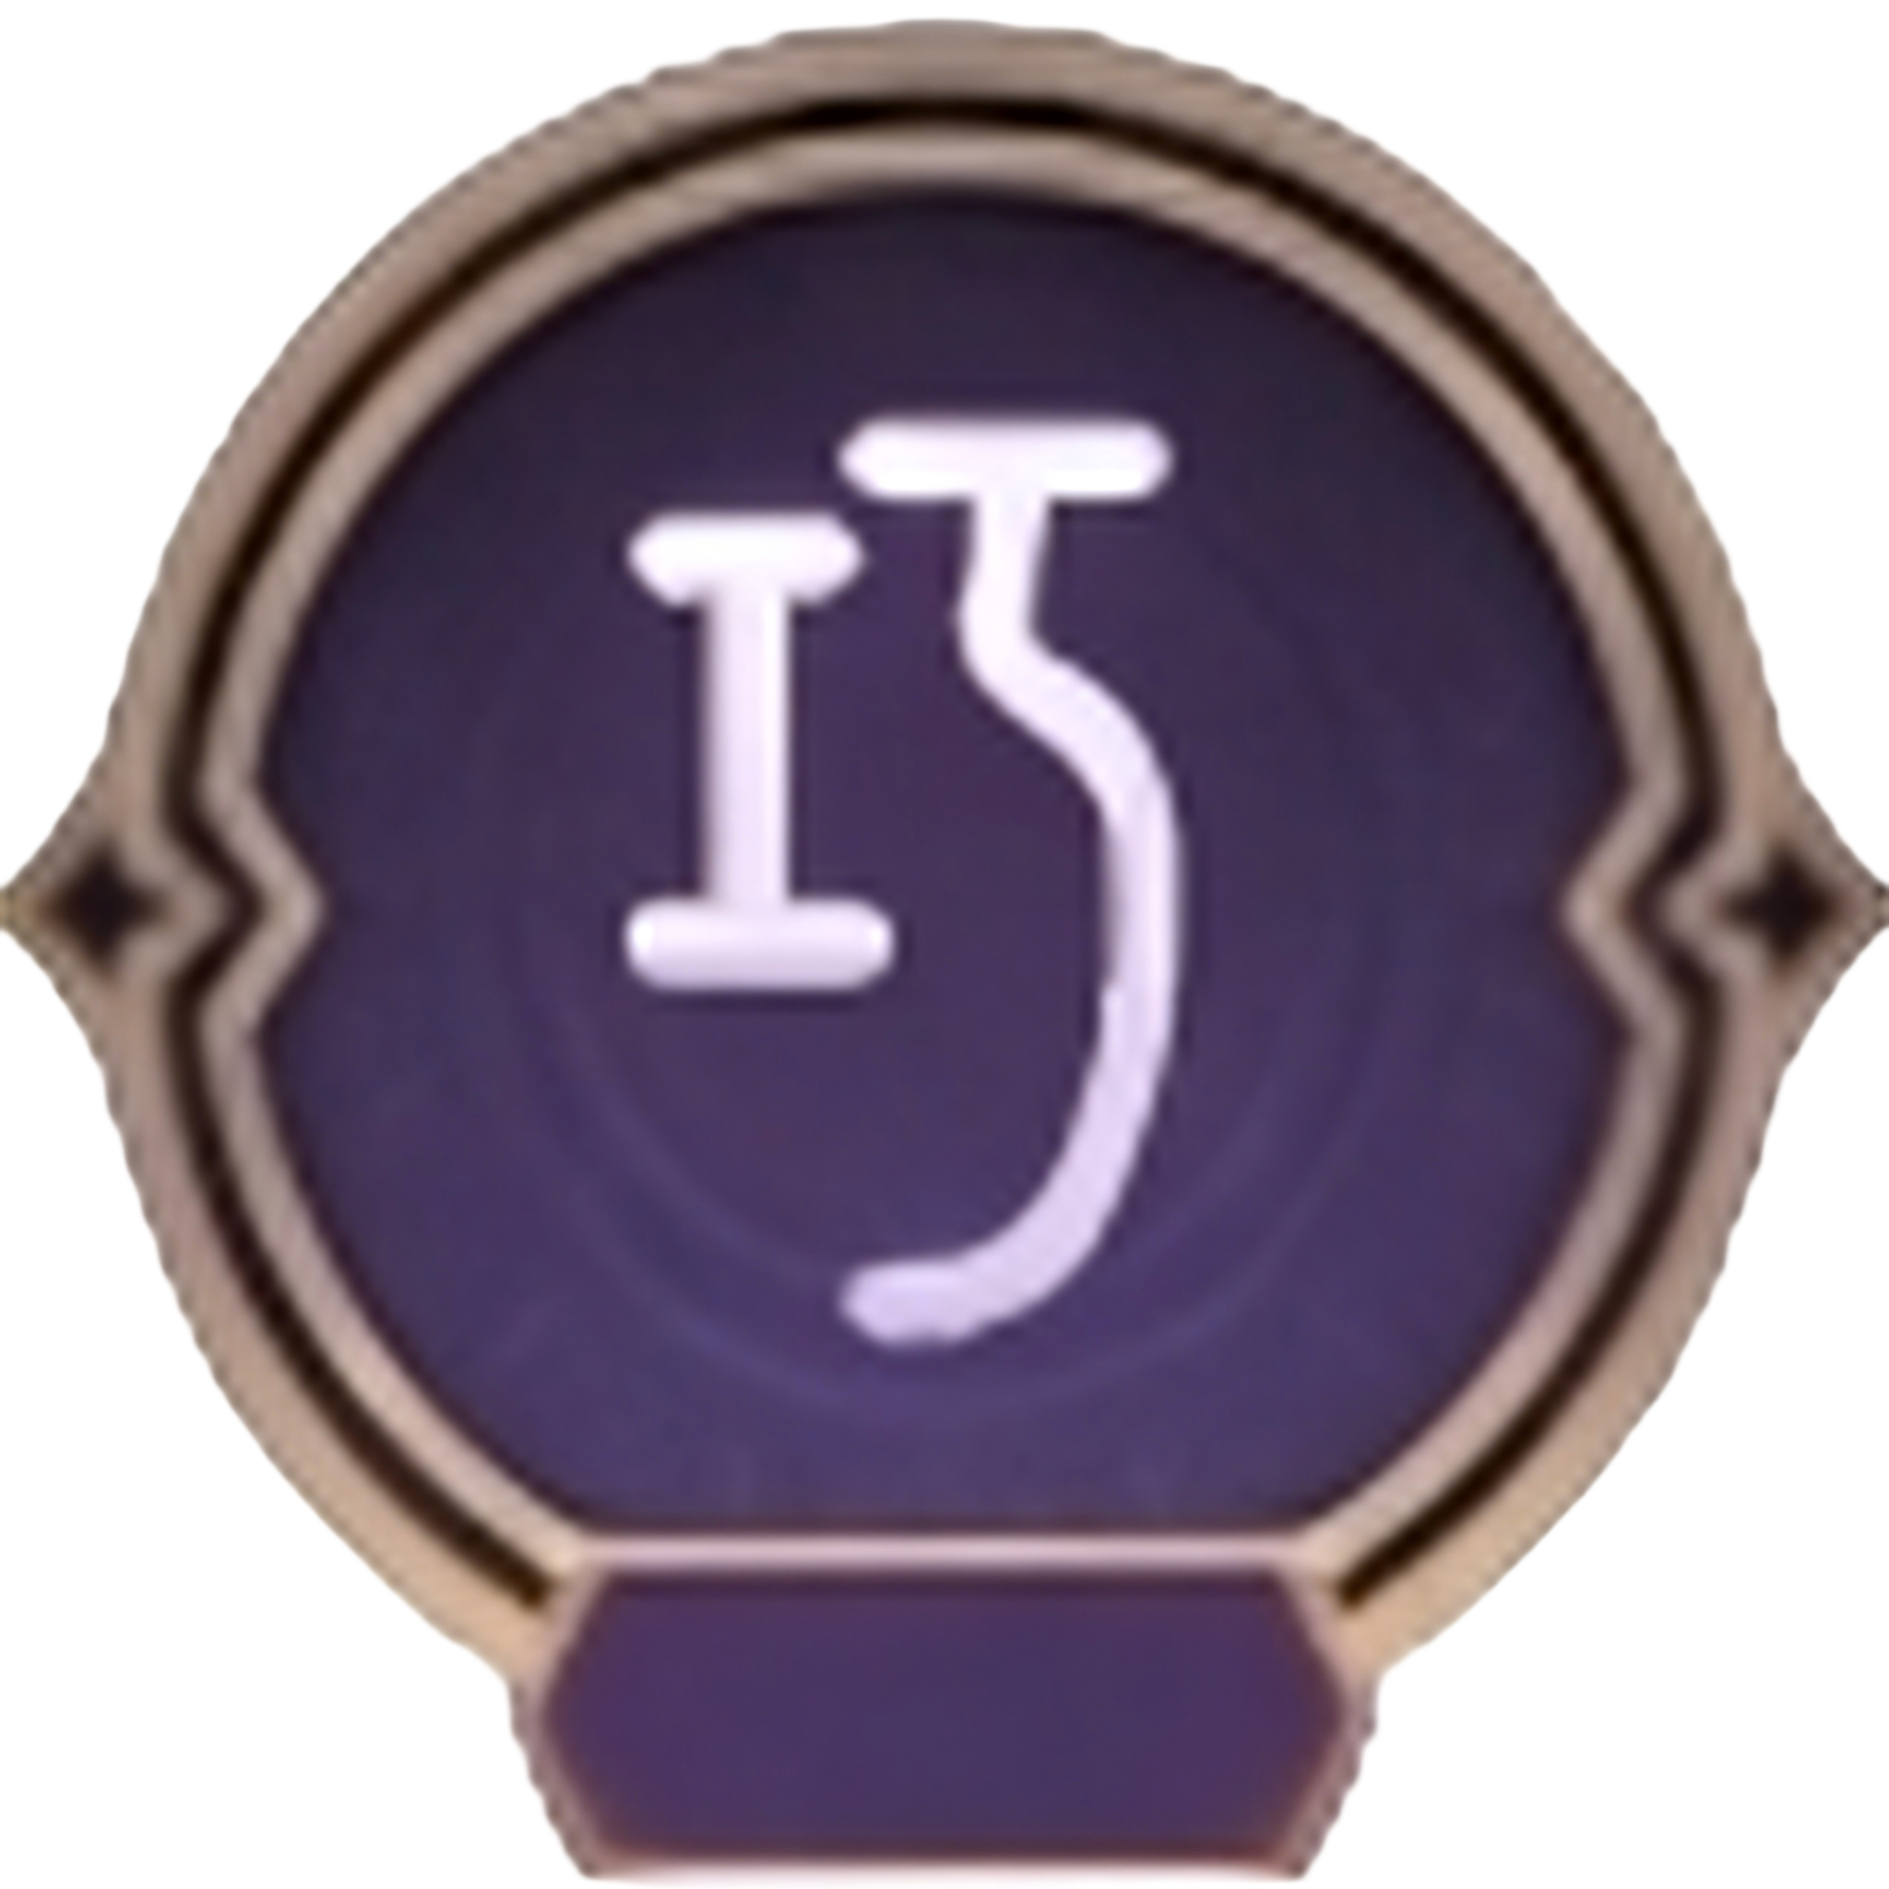
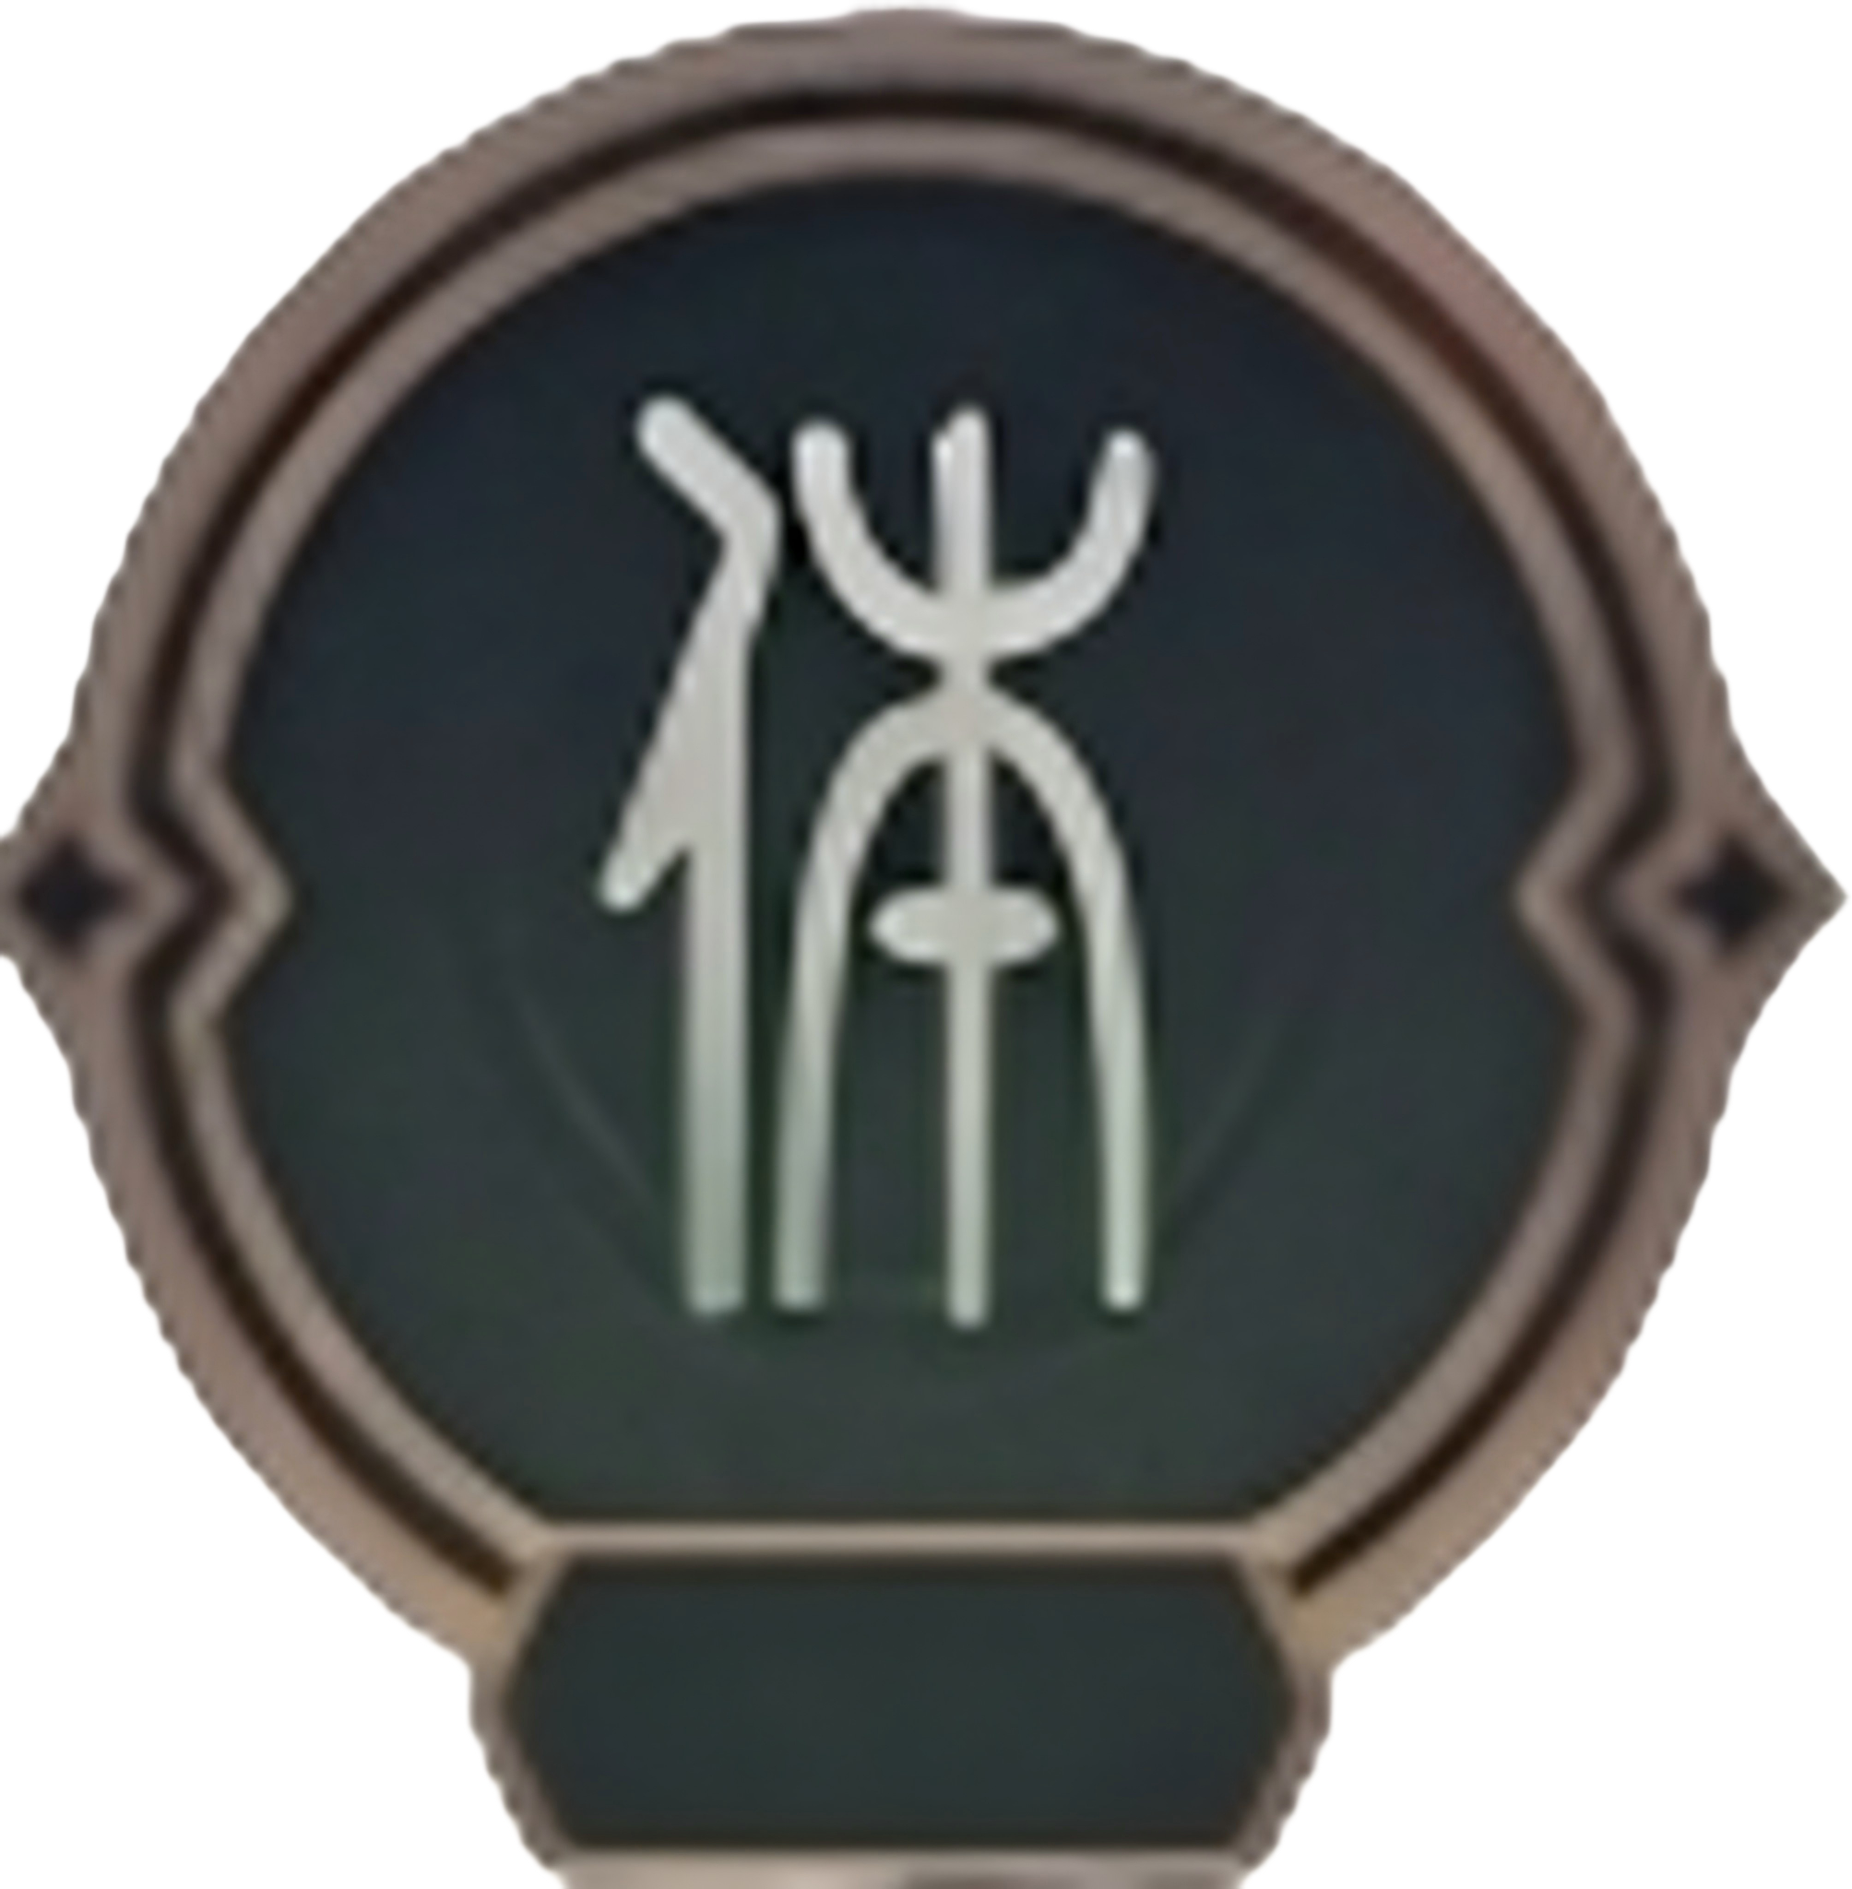
feat:继续完善【天赋点】

diff --git a/NarakaBladepoint.Modules/CommonFunction/UI/SkillPoint/Views/SkillPointPage.xaml b/NarakaBladepoint.Modules/CommonFunction/UI/SkillPoint/Views/SkillPointPage.xaml
@@ -141,7 +141,7 @@
                         ElementName="ellipse"
                         Path="(Canvas.Top)" />
                 </Canvas.Top>
-                <Image Source="{StaticResource SkillPointLeftUpFirstCircle1Image}" />
+                <Image Source="{StaticResource SkillPointLeftDownFirstCircle1Image}" />
                 <Image
                     Width="{StaticResource CanEditIconSize}"
                     Height="{StaticResource CanEditIconSize}"
@@ -196,7 +196,7 @@
                         ElementName="ellipse"
                         Path="(Canvas.Top)" />
                 </Canvas.Top>
-                <Image Source="{StaticResource SkillPointLeftUpFirstCircle2Image}" />
+                <Image Source="{StaticResource SkillPointLeftDownFirstCircle2Image}" />
                 <Image
                     Width="{StaticResource CanEditIconSize}"
                     Height="{StaticResource CanEditIconSize}"
@@ -258,7 +258,7 @@
                         ElementName="ellipse"
                         Path="(Canvas.Top)" />
                 </Canvas.Top>
-                <Image Source="{StaticResource SkillPointLeftUpSecondCircle1Image}" />
+                <Image Source="{StaticResource SkillPointLeftDownFirstCircle1Image}" />
                 <Image
                     Width="{StaticResource CanEditIconSize}"
                     Height="{StaticResource CanEditIconSize}"
@@ -320,7 +320,7 @@
                         ElementName="ellipse"
                         Path="(Canvas.Top)" />
                 </Canvas.Top>
-                <Image Source="{StaticResource SkillPointLeftUpSecondCircle2Image}" />
+                <Image Source="{StaticResource SkillPointLeftDownSecondCircle2Image}" />
                 <Image
                     Width="{StaticResource CanEditIconSize}"
                     Height="{StaticResource CanEditIconSize}"
@@ -382,7 +382,7 @@
                         ElementName="ellipse"
                         Path="(Canvas.Top)" />
                 </Canvas.Top>
-                <Image Source="{StaticResource SkillPointLeftUpThirdCircle1Image}" />
+                <Image Source="{StaticResource SkillPointLeftDownThirdCircle1Image}" />
                 <Image
                     Width="{StaticResource CanEditIconSize}"
                     Height="{StaticResource CanEditIconSize}"
@@ -444,7 +444,7 @@
                         ElementName="ellipse"
                         Path="(Canvas.Top)" />
                 </Canvas.Top>
-                <Image Source="{StaticResource SkillPointLeftUpThirdCircle2Image}" />
+                <Image Source="{StaticResource SkillPointLeftDownThirdCircle2Image}" />
                 <Image
                     Width="{StaticResource CanEditIconSize}"
                     Height="{StaticResource CanEditIconSize}"
@@ -488,7 +488,7 @@
                 <Canvas.Top>
                     <Binding ElementName="LuGrid" Path="(Canvas.Top)" />
                 </Canvas.Top>
-                <Image Source="{StaticResource SkillPointCircleImage}" />
+                <Image Source="{StaticResource SkillPointRightDownFirstCircle2Image}" />
                 <Image
                     Width="{StaticResource CanEditIconSize}"
                     Height="{StaticResource CanEditIconSize}"
@@ -531,7 +531,7 @@
                 <Canvas.Top>
                     <Binding ElementName="MaGrid" Path="(Canvas.Top)" />
                 </Canvas.Top>
-                <Image Source="{StaticResource SkillPointCircleImage}" />
+                <Image Source="{StaticResource SkillPointRightDownFirstCircle1Image}" />
                 <Image
                     Width="{StaticResource CanEditIconSize}"
                     Height="{StaticResource CanEditIconSize}"
@@ -567,9 +567,9 @@
                 </b:Interaction.Triggers>
                 <Grid.IsEnabled>
                     <MultiBinding Converter="{StaticResource DependencySkillPointConverter}" FallbackValue="True">
-                        <Binding Path="SkillPointsRightUp[0].CurrentLearned" />
-                        <Binding Path="SkillPointsRightUp[1].CurrentLearned" />
-                        <Binding Path="SkillPointsRightUp[0].TotalLearnable" />
+                        <Binding Path="SkillPointsRightDown[0].CurrentLearned" />
+                        <Binding Path="SkillPointsRightDown[1].CurrentLearned" />
+                        <Binding Path="SkillPointsRightDown[0].TotalLearnable" />
                     </MultiBinding>
                 </Grid.IsEnabled>
                 <Canvas.Left>
@@ -581,7 +581,7 @@
                 <Canvas.Top>
                     <Binding ElementName="HeGrid" Path="(Canvas.Top)" />
                 </Canvas.Top>
-                <Image Source="{StaticResource SkillPointCircleImage}" />
+                <Image Source="{StaticResource SkillPointRightDownSecondCircle2Image}" />
                 <Image
                     Width="{StaticResource CanEditIconSize}"
                     Height="{StaticResource CanEditIconSize}"
@@ -616,10 +616,10 @@
                     </b:EventTrigger>
                 </b:Interaction.Triggers>
                 <Grid.IsEnabled>
-                    <MultiBinding Converter="{StaticResource DependencySkillPointConverter}">
-                        <Binding Path="SkillPointsRightUp[0].CurrentLearned" />
-                        <Binding Path="SkillPointsRightUp[1].CurrentLearned" />
-                        <Binding Path="SkillPointsRightUp[0].TotalLearnable" />
+                    <MultiBinding Converter="{StaticResource DependencySkillPointConverter}" FallbackValue="True">
+                        <Binding Path="SkillPointsRightDown[0].CurrentLearned" />
+                        <Binding Path="SkillPointsRightDown[1].CurrentLearned" />
+                        <Binding Path="SkillPointsRightDown[0].TotalLearnable" />
                     </MultiBinding>
                 </Grid.IsEnabled>
                 <Canvas.Left>
@@ -631,7 +631,7 @@
                 <Canvas.Top>
                     <Binding ElementName="OuGrid" Path="(Canvas.Top)" />
                 </Canvas.Top>
-                <Image Source="{StaticResource SkillPointCircleImage}" />
+                <Image Source="{StaticResource SkillPointRightDownSecondCircle1Image}" />
                 <Image
                     Width="{StaticResource CanEditIconSize}"
                     Height="{StaticResource CanEditIconSize}"
@@ -666,10 +666,10 @@
                     </b:EventTrigger>
                 </b:Interaction.Triggers>
                 <Grid.IsEnabled>
-                    <MultiBinding Converter="{StaticResource DependencySkillPointConverter}">
-                        <Binding Path="SkillPointsRightUp[2].CurrentLearned" />
-                        <Binding Path="SkillPointsRightUp[3].CurrentLearned" />
-                        <Binding Path="SkillPointsRightUp[2].TotalLearnable" />
+                    <MultiBinding Converter="{StaticResource DependencySkillPointConverter}" FallbackValue="True">
+                        <Binding Path="SkillPointsRightDown[2].CurrentLearned" />
+                        <Binding Path="SkillPointsRightDown[3].CurrentLearned" />
+                        <Binding Path="SkillPointsRightDown[2].TotalLearnable" />
                     </MultiBinding>
                 </Grid.IsEnabled>
                 <Canvas.Left>
@@ -681,7 +681,7 @@
                 <Canvas.Top>
                     <Binding ElementName="ShiGrid" Path="(Canvas.Top)" />
                 </Canvas.Top>
-                <Image Source="{StaticResource SkillPointCircleImage}" />
+                <Image Source="{StaticResource SkillPointRightDownThirdCircle1Image}" />
                 <Image
                     Width="{StaticResource CanEditIconSize}"
                     Height="{StaticResource CanEditIconSize}"
@@ -716,10 +716,10 @@
                     </b:EventTrigger>
                 </b:Interaction.Triggers>
                 <Grid.IsEnabled>
-                    <MultiBinding Converter="{StaticResource DependencySkillPointConverter}">
-                        <Binding Path="SkillPointsRightUp[2].CurrentLearned" />
-                        <Binding Path="SkillPointsRightUp[3].CurrentLearned" />
-                        <Binding Path="SkillPointsRightUp[2].TotalLearnable" />
+                    <MultiBinding Converter="{StaticResource DependencySkillPointConverter}" FallbackValue="True">
+                        <Binding Path="SkillPointsRightDown[2].CurrentLearned" />
+                        <Binding Path="SkillPointsRightDown[3].CurrentLearned" />
+                        <Binding Path="SkillPointsRightDown[2].TotalLearnable" />
                     </MultiBinding>
                 </Grid.IsEnabled>
                 <Canvas.Left>
@@ -731,7 +731,7 @@
                 <Canvas.Top>
                     <Binding ElementName="XiongGrid" Path="(Canvas.Top)" />
                 </Canvas.Top>
-                <Image Source="{StaticResource SkillPointCircleImage}" />
+                <Image Source="{StaticResource SkillPointRightDownThirdCircle2Image}" />
                 <Image
                     Width="{StaticResource CanEditIconSize}"
                     Height="{StaticResource CanEditIconSize}"
@@ -1059,7 +1059,7 @@
                         <Binding ElementName="skillPointCanvas" Path="ActualHeight" />
                     </MultiBinding>
                 </Canvas.Top>
-                <Image Source="{StaticResource SkillPointCircleImage}" />
+                <Image Source="{StaticResource SkillPointRightUpFirstCircle1Image}" />
                 <Image
                     Width="{StaticResource CanEditIconSize}"
                     Height="{StaticResource CanEditIconSize}"
@@ -1104,7 +1104,7 @@
                         <Binding ElementName="skillPointCanvas" Path="ActualHeight" />
                     </MultiBinding>
                 </Canvas.Top>
-                <Image Source="{StaticResource SkillPointCircleImage}" />
+                <Image Source="{StaticResource SkillPointRightUpFirstCircle2Image}" />
                 <Image
                     Width="{StaticResource CanEditIconSize}"
                     Height="{StaticResource CanEditIconSize}"
@@ -1156,7 +1156,7 @@
                         <Binding ElementName="skillPointCanvas" Path="ActualHeight" />
                     </MultiBinding>
                 </Canvas.Top>
-                <Image Source="{StaticResource SkillPointCircleImage}" />
+                <Image Source="{StaticResource SkillPointRightUpSecondCircle2Image}" />
                 <Image
                     Width="{StaticResource CanEditIconSize}"
                     Height="{StaticResource CanEditIconSize}"
@@ -1208,7 +1208,7 @@
                         <Binding ElementName="skillPointCanvas" Path="ActualHeight" />
                     </MultiBinding>
                 </Canvas.Top>
-                <Image Source="{StaticResource SkillPointCircleImage}" />
+                <Image Source="{StaticResource SkillPointRightUpSecondCircle1Image}" />
                 <Image
                     Width="{StaticResource CanEditIconSize}"
                     Height="{StaticResource CanEditIconSize}"
@@ -1260,7 +1260,7 @@
                         <Binding ElementName="skillPointCanvas" Path="ActualHeight" />
                     </MultiBinding>
                 </Canvas.Top>
-                <Image Source="{StaticResource SkillPointCircleImage}" />
+                <Image Source="{StaticResource SkillPointRightUpThirdCircle1Image}" />
                 <Image
                     Width="{StaticResource CanEditIconSize}"
                     Height="{StaticResource CanEditIconSize}"
@@ -1312,7 +1312,7 @@
                         <Binding ElementName="skillPointCanvas" Path="ActualHeight" />
                     </MultiBinding>
                 </Canvas.Top>
-                <Image Source="{StaticResource SkillPointCircleImage}" />
+                <Image Source="{StaticResource SkillPointRightUpThirdCircle2Image}" />
                 <Image
                     Width="{StaticResource CanEditIconSize}"
                     Height="{StaticResource CanEditIconSize}"
@@ -1338,6 +1338,6 @@
             Grid.Column="2"
             HorizontalAlignment="Right"
             VerticalAlignment="Bottom"
-            Command="{Binding ReturnCommand}" />
+            Command="{Binding ReturnToHallCommand}" />
     </Grid>
 </base:UserControlBase>

diff --git a/NarakaBladepoint.Modules/CommonFunction/UI/SkillPoint/ViewModels/SkillPointPageViewModel.cs b/NarakaBladepoint.Modules/CommonFunction/UI/SkillPoint/ViewModels/SkillPointPageViewModel.cs
@@ -1,6 +1,7 @@
 using System;
 using System.Collections.ObjectModel;
 using System.Linq;
+using NarakaBladepoint.Modules.CommonFunction.Domain.Bases;
 using Prism.Commands;
 
 namespace NarakaBladepoint.Modules.CommonFunction.UI.SkillPoint.ViewModels
@@ -63,7 +64,7 @@ namespace NarakaBladepoint.Modules.CommonFunction.UI.SkillPoint.ViewModels
         }
     }
 
-    internal class SkillPointPageViewModel : CanRemoveMainContentRegionViewModelBase
+    internal class SkillPointPageViewModel : CommonFunctionPageViewModelBase
     {
         private int _remainingPoints;
         private bool _isSkillPointsEnabled;
